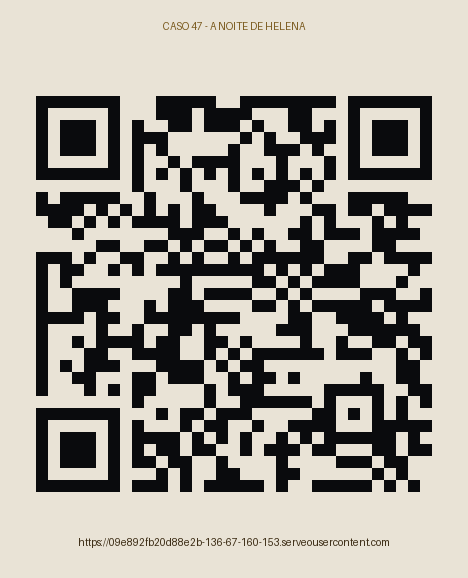
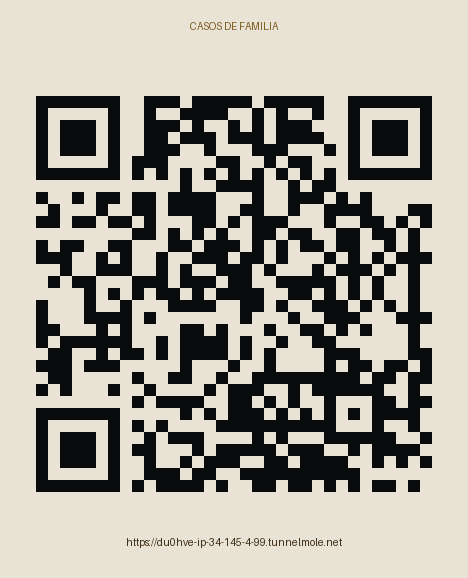
Documentacao com CF-04, link de acesso e QR atualizados

diff --git a/ACESSO.md b/ACESSO.md
@@ -1,33 +1,36 @@
-# 🎮 CASO 47 — link para abrir no celular
+# 🎮 CASOS DE FAMÍLIA — link para abrir no celular
 
-## 👉 https://09e892fb20d88e2b-136-67-160-153.serveousercontent.com
+## 👉 https://du0hve-ip-34-145-4-99.tunnelmole.net
 
-Abra esse endereço no celular. Na primeira visita aparece um aviso do Serveo — toque em **Continue to Site**.
+Abra esse endereço no celular. Abre direto, sem tela de aviso.
 
 📱 **QR code:** abra `preview/QR-ACESSO.png` e aponte a câmera do celular.
 
-Link ativo em: 07/09/2026 22:29:32 — via **serveo**
+Link ativo em: 07/09/2026 23:24:13 — via **tunnelmole**
 
 ---
 
 ## Jogar em grupo
 
-1. Um aparelho toca **CRIAR SALA** → código de 5 letras
-2. Os outros tocam **ENTRAR COM CÓDIGO** → digitam o código
-3. Quem criou toca **COMEÇAR INVESTIGAÇÃO**
+1. Um aparelho toca **CRIAR SALA** → código `FAM-XXXX`
+2. Os outros tocam **ENTRAR EM SALA** → digitam o código (ou abrem o link compartilhado)
+3. Todos marcam **PRONTO**; quem criou toca **INICIAR CASO**
+4. Cada um lê o briefing no seu ritmo (**CONTINUAR**) e recebe o papel secreto
+5. Investiguem, conversem pelo 🎤, usem **PAPO SECRETO** e votem antes de o tempo acabar
 
-Sozinho: **JOGAR SOZINHO**, ou abra 2 abas do navegador (uma cria, outra entra).
+Sozinho: **JOGAR SOZINHO**. Em 2: o sistema entra com suspeitos e a partida dura 5 min.
+
+---
+
+## Casos disponíveis
+
+CF-01 Mansão · CF-02 Fazenda · CF-03 Hotel · **CF-04 O Último Balanço (empresa)**
 
 ---
 
 ## Se o link cair
 
-Abra este arquivo de novo — o watchdog recria o túnel sozinho e regrava a URL
-aqui em ~1 minuto (o QR é regerado junto).
+Abra este arquivo de novo — o watchdog recria o túnel sozinho e regrava a URL aqui em ~1 minuto.
 
-Para não depender de túnel, rode na sua máquina:
-```bash
-cd escape-room && npm install && npm start
-# celulares na mesma rede Wi-Fi usam o IP que aparece no terminal
-```
-Ou publique de graça com URL fixa (Render/Railway) — `render.yaml` e `Dockerfile` prontos.
+Para não depender de túnel: `RENDER-PASSO-A-PASSO.md` (URL fixa e gratuita) ou rode na sua
+máquina com `npm install && npm start` (celulares na mesma rede Wi-Fi usam o IP do terminal).

diff --git a/RELATORIO.md b/RELATORIO.md
@@ -8,12 +8,13 @@ Data: 07/09/2026 · tudo abaixo foi testado de verdade neste workspace (não é 
 
 | | |
 |---|---|
-| **Link temporário (para testar hoje)** | https://6wrhoi-ip-136-67-160-153.tunnelmole.net |
+| **Link temporário (para testar hoje)** | https://du0hve-ip-34-145-4-99.tunnelmole.net |
 | **Link permanente** | ⚠ **Pendente — depende da sua conta** (veja o item 4) |
 | Servidor local | `npm start` → http://localhost:3000 |
 
-O endereço temporário funciona no celular agora mesmo (testei o `/healthz`). Ele **não** é a
-entrega final: cai quando esta máquina desliga. O que falta para o endereço definitivo está
+O endereço temporário funciona no celular agora mesmo (testei o `/healthz` e uma partida de
+2 jogadores por ele). Ele **não** é a entrega final: cai quando esta máquina desliga, e o
+watchdog pode trocá-lo — nesse caso o endereço atualizado fica em `ACESSO.md`. O que falta para o endereço definitivo está
 no item 4, e é a única etapa que eu não consigo fazer sozinho.
 
 ---
@@ -91,6 +92,15 @@ Com isso eu crio o repositório, disparo o Blueprint, testo a URL e te devolvo
 | Ping a cada 10 min em `/healthz` | cron-job.org | **Opcional.** Evita o servidor dormir no plano grátis do Render |
 
 Nenhuma credencial está no código; o `.env` está no `.gitignore`.
+
+### Enquanto isso: link de teste (temporário)
+
+`ACESSO.md` e `COMO-ACESSAR.md` trazem o endereço público de agora (túnel) com QR code, e um
+watchdog na máquina mantém o túnel vivo, regravando a URL sozinho se ele cair. **Esse túnel
+não é o endereço final** — serve para você jogar hoje do celular. Um detalhe: túneis gratuitos
+não transportam WebSocket, então por ele o jogo usa automaticamente o transporte reserva
+(HTTP long-poll). A partida sincroniza igual; só a sinalização da voz fica ~1 s mais lenta.
+No endereço definitivo (Render), volta ao WebSocket.
 
 ---
 

diff --git a/COMO-ACESSAR.md b/COMO-ACESSAR.md
@@ -2,7 +2,7 @@
 
 ## Link para jogar agora (temporário)
 
-https://6wrhoi-ip-136-67-160-153.tunnelmole.net
+https://du0hve-ip-34-145-4-99.tunnelmole.net
 
 > **Atenção:** este endereço é temporário — serve para você testar hoje no celular, mas
 > cai quando esta máquina desliga. O endereço definitivo sai do Render (plano grátis):
